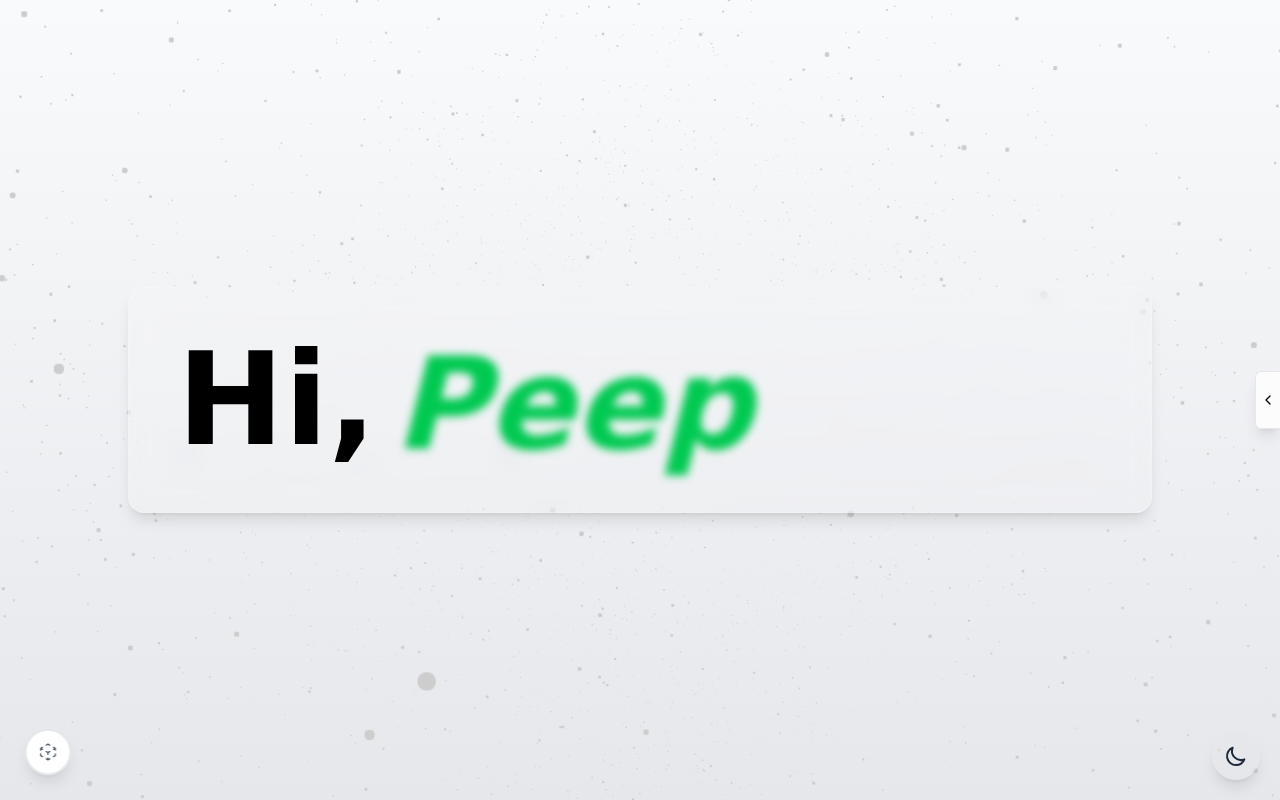
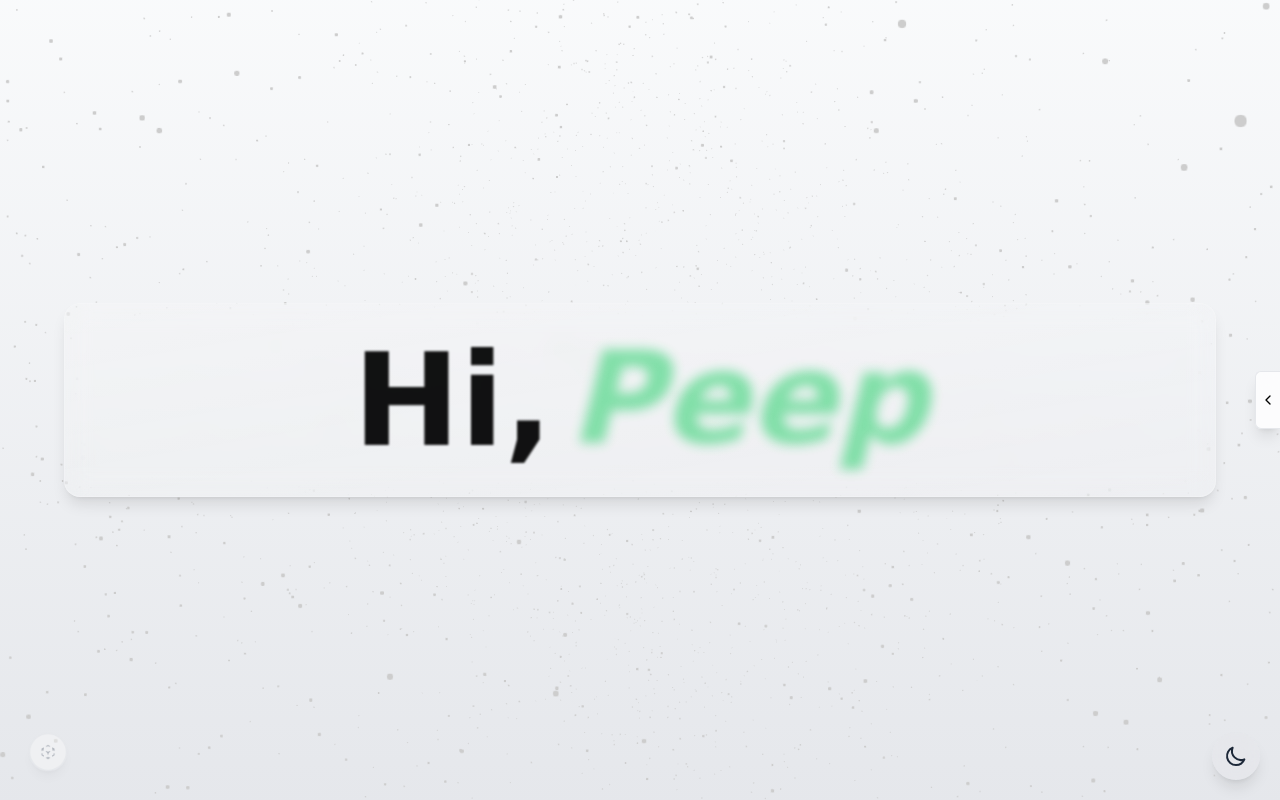
feat: Upgrade GooeyPage with Particle Background and Glassmorphism
- Add `ParticleBackground` using `@react-three/fiber` for a modern starfield effect.
- Add `GlassCard` component to implement requested glassmorphism style.
- Enhance `Section` and `HalfHeightSection` components to wrap content in `GlassCard`.
- Restore original `GooeyPage` scrolling logic (removed Smooth Scroll) to fix alignment regressions.
- Install `maath` for particle math utilities, and `clsx`/`tailwind-merge` for styling.

Changed region(s): [[0.125, 0.4062, 0.75, 0.625], [0.0312, 0.9062, 0.0625, 0.9688], [0.3125, 0.8438, 0.3438, 0.875]]

diff --git a/src/pages/GooeyPage.jsx b/src/pages/GooeyPage.jsx
@@ -1,13 +1,13 @@
 import { useState, useEffect, useRef } from "react";
 import { useNavigate } from "react-router-dom";
 import { motion, AnimatePresence } from "framer-motion";
+import useVisibilityOnScroll from "../hooks/useVisibilityOnScroll";
 import { preloadResources } from "../utils/resourcePreloader";
 import { usePageTitle } from "../hooks/usePageTitle";
 import useFullscreen from "../hooks/useFullscreen";
+import { LuArrowUp } from "react-icons/lu";
 import { HiOutlineCubeTransparent } from "react-icons/hi2";
 
-// New Modern Components
-import SmoothScroll from "../components/common/SmoothScroll";
 import ParticleBackground from "../components/backgrounds/ParticleBackground";
 
 // section components
@@ -26,14 +26,100 @@ import ConnectSection from "../components/sections/ConnectSection";
 // command toolbar
 import CommandToolbar from "../components/my-creation/CommandToolbar/CommandToolbar";
 
+// Animation properties for each section
+const firstScreenAnimation = {
+  key: "first-screen",
+  initial: { opacity: 0, y: -100 },
+  animate: { opacity: 1, y: 0 },
+  exit: { opacity: 0, y: -50 },
+  transition: { duration: 1 },
+};
+
+const secondScreenAnimation = {
+  key: "second-screen",
+  initial: { opacity: 0, y: 100 },
+  animate: { opacity: 1, y: 0 },
+  exit: { opacity: 0, y: 50 },
+  transition: { duration: 1 },
+};
+
+const thirdScreenAnimation = {
+  key: "third-screen",
+  initial: { opacity: 0, scale: 0.8 },
+  animate: { opacity: 1, scale: 1 },
+  exit: { opacity: 0, scale: 0.9 },
+  transition: { duration: 0.8 },
+};
+
+const fourthScreenAnimation = {
+  key: "fourth-screen",
+  initial: { opacity: 0, scale: 0.9 },
+  animate: { opacity: 1, scale: 1 },
+  exit: { opacity: 0, scale: 0.9 },
+  transition: { duration: 0.8 },
+};
+
+const fifthScreenAnimation = {
+  key: "fifth-screen",
+  initial: { opacity: 0, y: 50 },
+  animate: { opacity: 1, y: 0 },
+  exit: { opacity: 0, y: 50 },
+  transition: { duration: 0.8 },
+};
+
+const sixthScreenAnimation = {
+  key: "sixth-screen",
+  initial: { opacity: 0, y: 50 },
+  animate: { opacity: 1, y: 0 },
+  exit: { opacity: 0, y: 50 },
+  transition: { duration: 0.8 },
+};
+
+const seventhScreenAnimation = {
+  key: "seventh-screen",
+  initial: { opacity: 0, y: 50 },
+  animate: { opacity: 1, y: 0 },
+  exit: { opacity: 0, y: 50 },
+  transition: { duration: 0.8 },
+};
+
+const eighthScreenAnimation = {
+  key: "eighth-screen",
+  initial: { opacity: 0, y: 50 },
+  animate: { opacity: 1, y: 0 },
+  exit: { opacity: 0, scale: 0.8 },
+  transition: { duration: 0.8 },
+};
+
+const ninthScreenAnimation = {
+  key: "ninth-screen",
+  initial: { opacity: 0, y: 50 },
+  animate: { opacity: 1, y: 0 },
+  exit: { opacity: 0, y: 50 },
+  transition: { duration: 0.8 },
+};
+
 function GooeyPage() {
   const [isLoaded, setIsLoaded] = useState(false);
   const [loadingProgress, setLoadingProgress] = useState(0);
   const [showKeyboardHelp, setShowKeyboardHelp] = useState(false);
+  const firstScreenRef = useRef(null);
   const navigate = useNavigate();
 
   usePageTitle("", "gooey");
-  useFullscreen();
+  useFullscreen(); // Enable fullscreen with 'f' key
+
+  const {
+    showFirstScreen,
+    showSecondScreen,
+    showThirdScreen,
+    showFourthScreen,
+    showFifthScreen,
+    showSixthScreen,
+    showSeventhScreen,
+    showEighthScreen,
+    showNinthScreen,
+  } = useVisibilityOnScroll();
 
   useEffect(() => {
     preloadResources(setLoadingProgress, setIsLoaded);
@@ -79,6 +165,7 @@ function GooeyPage() {
 
       if (import.meta.env.MODE === "production") {
         fetch("https://traana.vercel.app/tra", {
+          // fetch("http://localhost:3000/tra", {
           method: "POST",
           headers: { "Content-Type": "application/json" },
           body: JSON.stringify(payload),
@@ -87,6 +174,7 @@ function GooeyPage() {
     })();
   }, []);
 
+  // Add keyboard shortcuts
   useEffect(() => {
     const handleKeyPress = (e) => {
       if (e.key.toLowerCase() === "h" && !e.ctrlKey) {
@@ -106,7 +194,7 @@ function GooeyPage() {
   }, [navigate, showKeyboardHelp]);
 
   return (
-    <div className="overflow-x-hidden scrollbar-hide bg-white dark:bg-black text-black dark:text-white">
+    <div className="overflow-x-hidden scrollbar-hide">
       <AnimatePresence mode="wait">
         {!isLoaded ? (
           <LoadingSection key="loading" progress={loadingProgress} />
@@ -116,29 +204,77 @@ function GooeyPage() {
             initial={{ opacity: 0 }}
             animate={{ opacity: 1 }}
             transition={{ duration: 0.8 }}
-            className="w-full relative"
+            className="min-h-[900vh] w-full relative bg-white dark:bg-black"
           >
             <ParticleBackground />
-            <SmoothScroll>
-              <CommandToolbar showKeyboardHelp={showKeyboardHelp} />
+            <CommandToolbar showKeyboardHelp={showKeyboardHelp} />
+            <div className="absolute inset-0 flex flex-col items-center">
+              <IntroSection
+                id="intro"
+                ref={firstScreenRef}
+                isVisible={showFirstScreen}
+                animationProps={firstScreenAnimation}
+              />
 
-              <div className="relative z-10 flex flex-col items-center w-full pb-32">
-                <IntroSection id="intro" modern={true} />
-                <NameSection id="name" modern={true} />
-                <WhatAmISection id="whatami" modern={true} />
-                <SkillsSection id="skills" modern={true} />
-                <ModelSection id="model" modern={true} />
-                <PhotoSection id="photos" modern={true} />
-                <ProjectsSection id="projects" modern={true} />
-                <VibeSection id="vibe" modern={true} />
-                <ExperienceSection id="acad-achie" modern={true} />
-                <ConnectSection id="connect" modern={true} />
-              </div>
-            </SmoothScroll>
+              <NameSection
+                id="name"
+                isVisible={showSecondScreen}
+                animationProps={secondScreenAnimation}
+              />
+
+              <WhatAmISection
+                id="whatami"
+                isVisible={showThirdScreen}
+                animationProps={thirdScreenAnimation}
+              />
+
+              <SkillsSection
+                id="skills"
+                isVisible={showFourthScreen}
+                animationProps={fourthScreenAnimation}
+              />
+
+              <ModelSection
+                id="model"
+                isVisible={showFifthScreen}
+                animationProps={fifthScreenAnimation}
+              />
+
+              <PhotoSection
+                id="photos"
+                isVisible={showFifthScreen}
+                animationProps={fifthScreenAnimation}
+              />
+
+              <ProjectsSection
+                id="projects"
+                isVisible={showSixthScreen}
+                animationProps={sixthScreenAnimation}
+              />
+
+              <VibeSection
+                id="vibe"
+                isVisible={showSeventhScreen}
+                animationProps={seventhScreenAnimation}
+              />
+
+              <ExperienceSection
+                id="acad-achie"
+                isVisible={showEighthScreen}
+                animationProps={eighthScreenAnimation}
+              />
+
+              <ConnectSection
+                id="connect"
+                isVisible={showNinthScreen}
+                animationProps={ninthScreenAnimation}
+              />
+            </div>
           </motion.div>
         )}
       </AnimatePresence>
 
+      {/* Floating Home Button */}
       <motion.button
         initial={{ opacity: 0, scale: 0.8 }}
         animate={{ opacity: 1, scale: 1 }}

diff --git a/src/components/layout/Section.jsx b/src/components/layout/Section.jsx
@@ -10,45 +10,14 @@ const Section = ({
   background,
   className,
   innerClassName,
-  back_class,
-  modern = false,
+  back_class
 }) => {
-  if (modern) {
-    return (
-      <div
-        id={id}
-        className={`min-h-screen w-full flex items-center justify-center relative py-20 ${className || ""}`}
-      >
-        {background && (
-          <div className={`absolute inset-0 z-0 ${back_class || ""}`}>
-            {background}
-          </div>
-        )}
-        <div className="z-10 relative w-full flex justify-center">
-          <motion.div
-            initial={animationProps?.initial || { opacity: 0, y: 50 }}
-            whileInView={animationProps?.animate || { opacity: 1, y: 0 }}
-            viewport={{ once: true, margin: "-100px" }}
-            transition={animationProps?.transition || { duration: 0.8 }}
-            className={`flex items-center justify-center w-[90vw] md:w-[80vw] ${innerClassName || ""}`}
-          >
-            <GlassCard className="p-8 md:p-12 w-full">
-               {children}
-            </GlassCard>
-          </motion.div>
-        </div>
-      </div>
-    );
-  }
-
   return (
     <div
       id={id}
       className={`h-screen w-full flex items-center justify-center relative ${className}`}
     >
-      {background && (
-        <div className={`absolute inset-0 z-0 ${back_class}`}>{background}</div>
-      )}
+      {background && <div className={`absolute inset-0 z-0 ${back_class}`}>{background}</div>}
       <div className="z-10 relative">
         <AnimatePresence mode="wait">
           {isVisible && (
@@ -60,7 +29,10 @@ const Section = ({
               transition={animationProps.transition}
               className={`flex items-center justify-center h-full w-[80vw] md:w-[90vw] overflow ${innerClassName}`}
             >
-              {children}
+              {/* Wrap content in GlassCard to satisfy "heavy glassmorphism" request while keeping layout */}
+              <GlassCard className="w-full h-full flex items-center justify-center p-8 relative">
+                 {children}
+              </GlassCard>
             </motion.div>
           )}
         </AnimatePresence>

diff --git a/src/components/layout/HalfHeightSection.jsx b/src/components/layout/HalfHeightSection.jsx
@@ -9,32 +9,7 @@ const HalfHeightSection = ({
   animationProps,
   background,
   className,
-  modern = false,
 }) => {
-  if (modern) {
-    return (
-      <div
-        id={id}
-        className={`min-h-[50vh] w-full flex items-center justify-center relative py-10 ${className || ""}`}
-      >
-        {background && <div className="absolute inset-0 z-0">{background}</div>}
-        <div className="z-10 relative w-full flex justify-center">
-          <motion.div
-            initial={animationProps?.initial || { opacity: 0, y: 30 }}
-            whileInView={animationProps?.animate || { opacity: 1, y: 0 }}
-            viewport={{ once: true, margin: "-50px" }}
-            transition={animationProps?.transition || { duration: 0.8 }}
-            className="flex items-center justify-center w-[90vw] md:w-[80vw]"
-          >
-            <GlassCard className="p-6 md:p-8 w-full flex justify-center items-center">
-              {children}
-            </GlassCard>
-          </motion.div>
-        </div>
-      </div>
-    );
-  }
-
   return (
     <div
       id={id}
@@ -52,7 +27,9 @@ const HalfHeightSection = ({
               transition={animationProps.transition}
               className="flex items-center justify-center h-64 w-[80vw] md:h-96 md:w-[90vw]"
             >
-              {children}
+              <GlassCard className="w-full h-full flex items-center justify-center p-6 relative">
+                 {children}
+              </GlassCard>
             </motion.div>
           )}
         </AnimatePresence>
